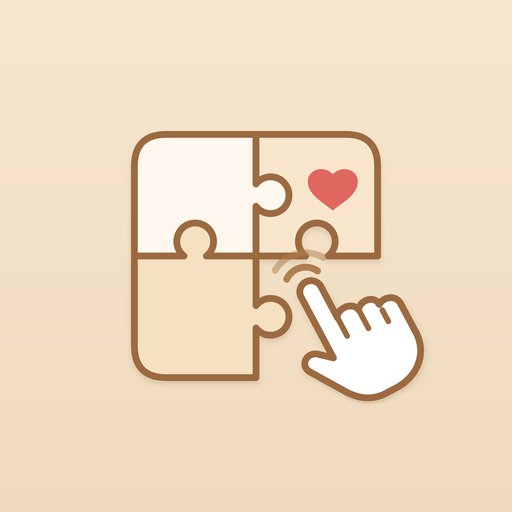
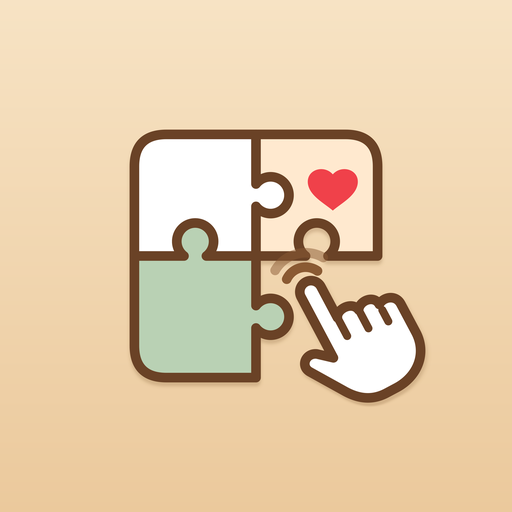
아이콘 더 선명하게: 굵은 선·고대비·세이지 조각

diff --git a/sw.js b/sw.js
@@ -1,6 +1,6 @@
 // 톡톡 오프라인 실행 (버전 202611041840)
-const CACHE = 'ttokttok-202611111831b';
-const SHELL = ["./","./index.html","./app-c75c4667.js?v=9","./app-21865120.css","./theme.css?v=8","./pwa.js?v=2","./kakao.js?v=1","./back.js?v=2","./push.js?v=4","./mood.js?v=10","./ptr.js?v=4","./rooms.js?v=33","./account.js?v=1","./anim.js?v=10","./easy.js?v=1","./puzzle.js?v=5","./manifest.webmanifest?v=10","./icon-192.png?v=10","./icon-512.png?v=10","./icon-180.png?v=10","./favicon.svg?v=11","./art/g01.webp?v=2","./art/g02.webp?v=2","./art/g03.webp?v=2","./art/g04.webp?v=2","./art/g05.webp?v=2","./art/g06.webp?v=2","./art/g07.webp?v=2","./art/g08.webp?v=2","./art/g09.webp?v=2","./art/g10.webp?v=2","./art/g11.webp?v=2","./art/g12.webp?v=2","./privacy.html"];
+const CACHE = 'ttokttok-202611111838b';
+const SHELL = ["./","./index.html","./app-c75c4667.js?v=9","./app-21865120.css","./theme.css?v=8","./pwa.js?v=2","./kakao.js?v=1","./back.js?v=2","./push.js?v=4","./mood.js?v=10","./ptr.js?v=4","./rooms.js?v=33","./account.js?v=1","./anim.js?v=10","./easy.js?v=1","./puzzle.js?v=5","./manifest.webmanifest?v=11","./icon-192.png?v=11","./icon-512.png?v=11","./icon-180.png?v=11","./favicon.svg?v=12","./art/g01.webp?v=2","./art/g02.webp?v=2","./art/g03.webp?v=2","./art/g04.webp?v=2","./art/g05.webp?v=2","./art/g06.webp?v=2","./art/g07.webp?v=2","./art/g08.webp?v=2","./art/g09.webp?v=2","./art/g10.webp?v=2","./art/g11.webp?v=2","./art/g12.webp?v=2","./privacy.html"];
 self.addEventListener('install', e => { e.waitUntil(caches.open(CACHE).then(c => c.addAll(SHELL.map(u => new Request(u, { cache: 'reload' })))).then(() => self.skipWaiting())); });
 self.addEventListener('activate', e => { e.waitUntil(caches.keys().then(ks => Promise.all(ks.filter(k => k !== CACHE).map(k => caches.delete(k)))).then(() => self.clients.claim())); });
 self.addEventListener('fetch', e => {

diff --git a/index.html b/index.html
@@ -5,9 +5,9 @@
 <meta name="viewport" content="width=device-width, initial-scale=1, viewport-fit=cover, user-scalable=no">
 <meta name="theme-color" content="#14284b">
 <title>톡톡</title>
-<link rel="icon" type="image/svg+xml" href="./favicon.svg?v=11">
-<link rel="manifest" href="./manifest.webmanifest?v=10">
-<link rel="apple-touch-icon" href="./icon-180.png?v=10">
+<link rel="icon" type="image/svg+xml" href="./favicon.svg?v=12">
+<link rel="manifest" href="./manifest.webmanifest?v=11">
+<link rel="apple-touch-icon" href="./icon-180.png?v=11">
 <meta name="apple-mobile-web-app-capable" content="yes">
 <meta name="mobile-web-app-capable" content="yes">
 <meta name="apple-mobile-web-app-status-bar-style" content="default">

diff --git a/CLAUDE.md b/CLAUDE.md
@@ -57,7 +57,7 @@
 - 양방향(부모만 확인받는 구조 아님), 대상은 '가까운 사람'(가족·친구·크루). 하트 주고받기는 하지 않음.
 - 11/11 방향 추가: 동네방(행정동 단위, GPS 없이 동 직접 선택, 끊김 알림은 방장=통장·복지관 담당자에게만, 이웃엔 집계만). 퍼즐 30조각 고정(초대 동기). 기획: 프로젝트 문서 claude/똑똑_동네방_기획_v1.md. 아직 구현 안 함.
 - 컨디션: 5가지(아주 좋음·좋음·그냥·별로·힘들어요, 11/11), 노크 후 큰 버튼, 목록엔 글자로만(얼굴·7일 점 없음), 주간 알림으로 위로·안부.
-- 아이콘: 11/11 퍼즐+하트+손 시안(7번)을 베이지·세이지로 고르기로 함(웹앱 아이콘·favicon 교체 완료 11/11, v=10(11/11): 선 굵게·진하게·그림자 줄여 선명도 개선, 4096px 슈퍼샘플링으로 1024·2048·maskable 1024·안드로이드 mipmap까지 생성. 수정은 icon.svg → `python3 tools/icons.py`. 풍년이 그림 g01~12·blink는 AI 업스케일(Real-ESRGAN anime) 2배, 11/11. 안드로이드 TWA mipmap도 교체(앱 빌드는 다시 해야 반영)). 화면 색은 theme.css v2(베이지·세이지, 배치·기능 그대로).
+- 아이콘: 11/11 퍼즐+하트+손 시안(7번)을 베이지·세이지로 고르기로 함(웹앱 아이콘·favicon 교체 완료 11/11, v=11(11/11): 선 아주 굵게(12)·진한 갈색, 왼쪽 아래 조각 세이지, 하트 진한 빨강, 배경 대비 키움, 4096px 슈퍼샘플링으로 1024·2048·maskable 1024·안드로이드 mipmap까지 생성. 수정은 icon.svg → `python3 tools/icons.py`. 풍년이 그림 g01~12·blink는 AI 업스케일(Real-ESRGAN anime) 2배, 11/11. 안드로이드 TWA mipmap도 교체(앱 빌드는 다시 해야 반영)). 화면 색은 theme.css v2(베이지·세이지, 배치·기능 그대로).
 - 플러스 월 2,900원 · 1년 29,000원(11/10 변경), 단체 1인 월 1,500원(베타 무료, 결제는 '준비 중'). 결제자만: 그림 미리보기·하루 3번·방 5개·소리·배지. 노크방 모두(곧): 문자 알림·형제 분담·주간 리포트·1년권 선물. 기본 안부 알림은 언제나 무료.
 - 그림 단품 판매 없음. 황금 칸 그림당 1칸, 당첨은 모두에게 공개.
 - 실명: 입장할 때 별명과 함께 선택 입력, 방장에게만 보임.
